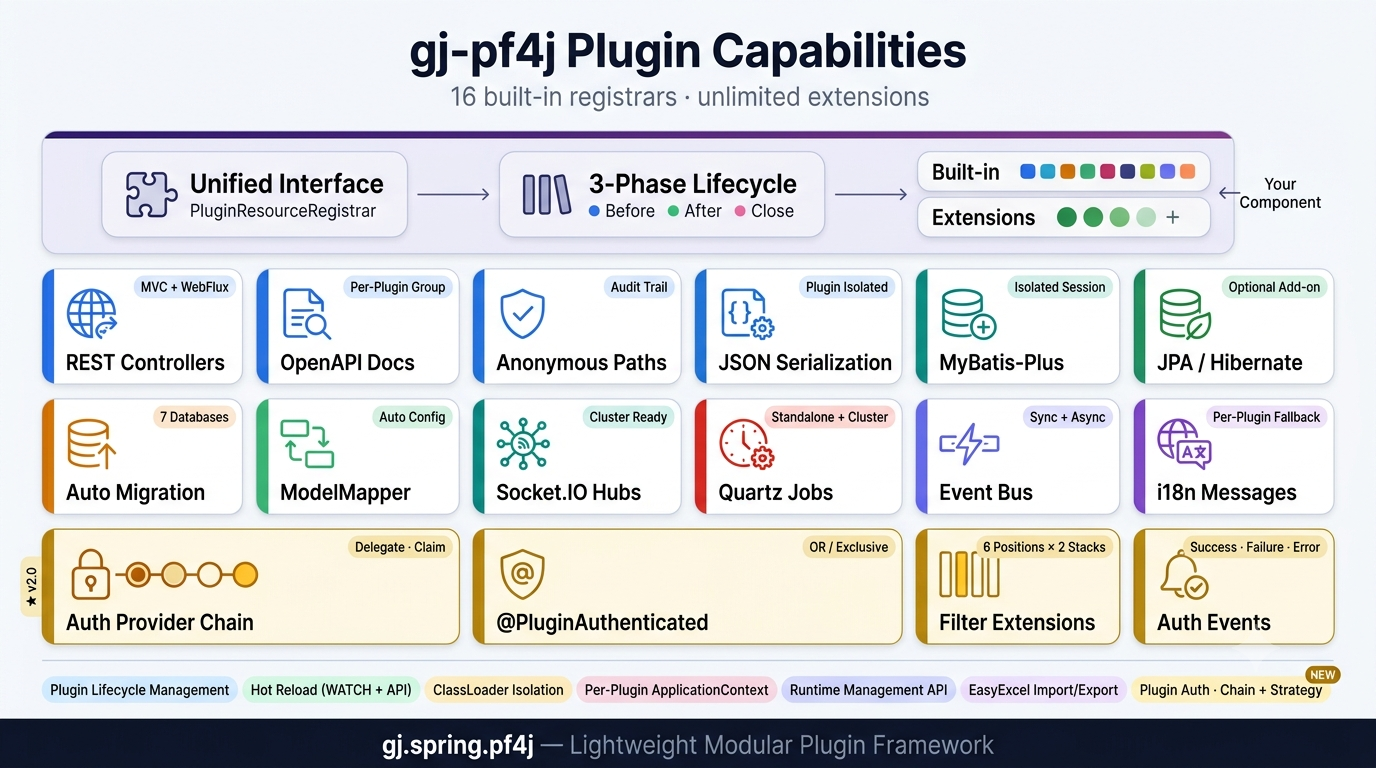
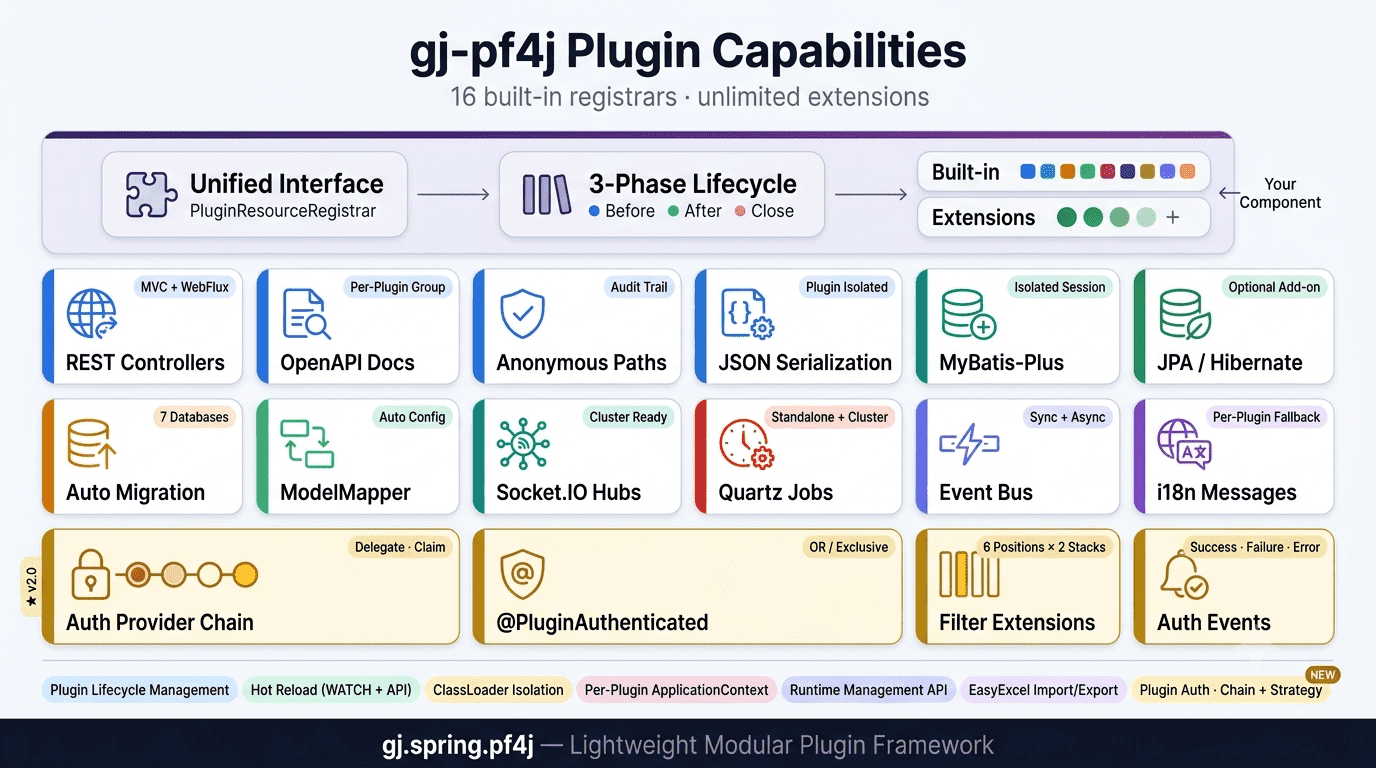
release: v2.0.0 — plugin authentication, filter slots, security config rename, optimizations

diff --git a/src/gj-pf4j-security/src/main/java/gj/pf4j/security/servlet/PluginDelegatingAuthFilter.java b/src/gj-pf4j-security/src/main/java/gj/pf4j/security/servlet/PluginDelegatingAuthFilter.java
@@ -40,28 +40,17 @@ public class PluginDelegatingAuthFilter extends OncePerRequestFilter {
     private final PluginAuthenticatedPathRegistry authenticatedPaths;
     private final AuthenticationStrategy strategy;
     private final ApplicationEventPublisher eventPublisher;
-    private final int bodyCacheLimit;
 
     public PluginDelegatingAuthFilter(GJPluginAuthRegistry registry,
                                        PluginAnonymousPathRegistry anonymousPaths,
                                        PluginAuthenticatedPathRegistry authenticatedPaths,
                                        AuthenticationStrategy strategy,
                                        ApplicationEventPublisher eventPublisher) {
-        this(registry, anonymousPaths, authenticatedPaths, strategy, eventPublisher, 64 * 1024);
-    }
-
-    public PluginDelegatingAuthFilter(GJPluginAuthRegistry registry,
-                                       PluginAnonymousPathRegistry anonymousPaths,
-                                       PluginAuthenticatedPathRegistry authenticatedPaths,
-                                       AuthenticationStrategy strategy,
-                                       ApplicationEventPublisher eventPublisher,
-                                       int bodyCacheLimit) {
         this.registry = registry;
         this.anonymousPaths = anonymousPaths;
         this.authenticatedPaths = authenticatedPaths;
         this.strategy = strategy;
         this.eventPublisher = eventPublisher;
-        this.bodyCacheLimit = bodyCacheLimit;
     }
 
     @Override
@@ -71,7 +60,7 @@ public class PluginDelegatingAuthFilter extends OncePerRequestFilter {
             throws ServletException, IOException {
 
         ContentCachingRequestWrapper wrappedRequest =
-                new ContentCachingRequestWrapper(request, bodyCacheLimit);
+                new ContentCachingRequestWrapper(request);
         String path = PluginHttpUtils.getPathWithinApplication(wrappedRequest);
 
         // 1. @AllowAnonymous → skip
